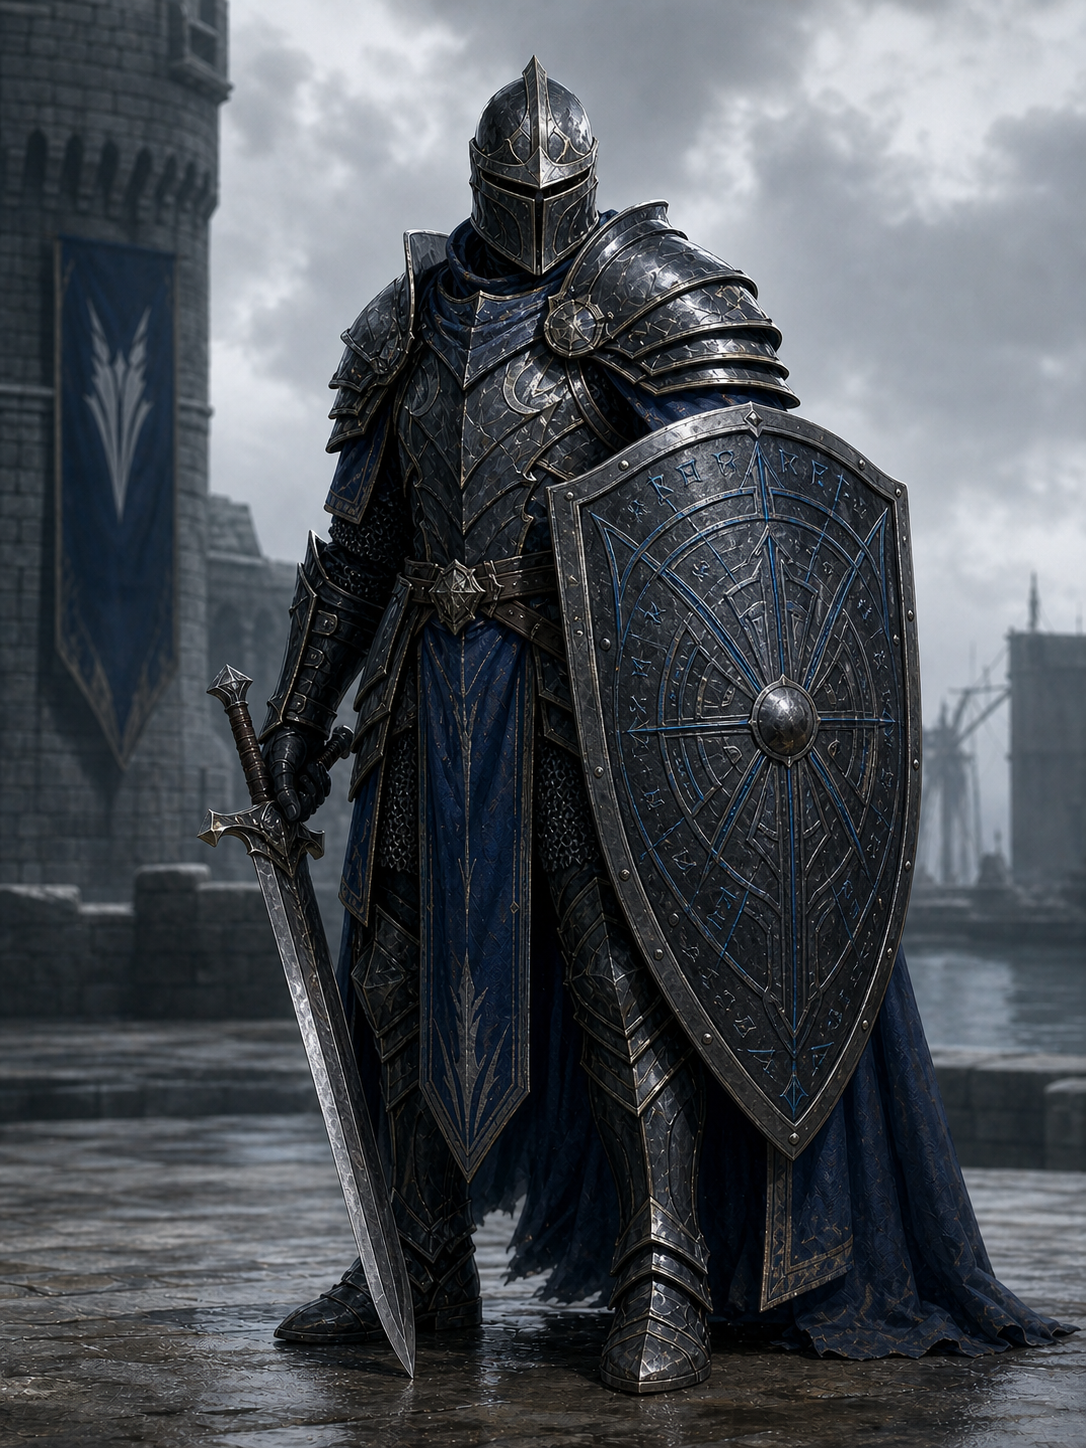
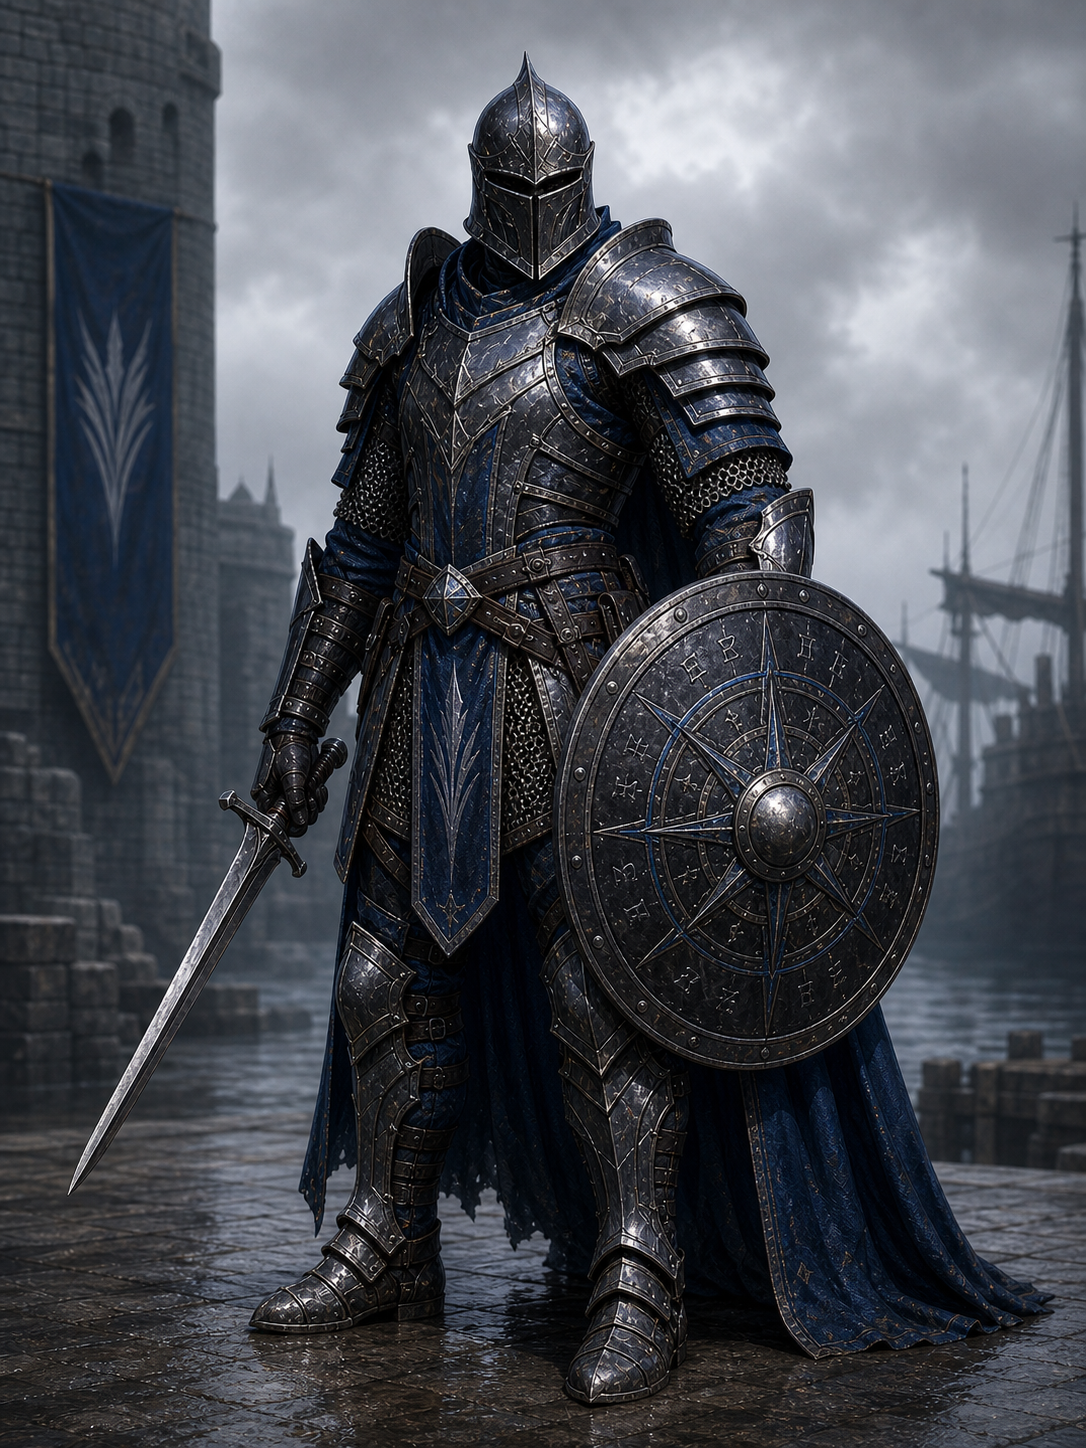
Обновить референс рунной элиты Михаэля

diff --git a/11_Медиа/Активы_персонажей/Принц_Михаэль/Элитная_гвардия_рунных_щитов/Промпт_визуального_референса.md b/11_Медиа/Активы_персонажей/Принц_Михаэль/Элитная_гвардия_рунных_щитов/Промпт_визуального_референса.md
@@ -25,8 +25,11 @@ updated_real_date: 2026-06-03
 ## Must Keep
 
 - Один типичный представитель, а не строй и не сюжетная сцена.
-- Тяжелая элитная броня из обычной стали: темная, угловатая, многослойная, богаче гвардейской, но без мифрила и кристаллов.
-- Большой рунный щит как главный визуальный знак: выгравированные руны, приглушенные синие линии в резьбе, практичный металлический щит.
+- Тяжелая элитная броня из обычной стали: темная, угловатая, многослойная, богаче гвардейской, но более открытая по конструкции и без мифрила и кристаллов.
+- Открытая конструкция брони: видны синий поддоспешник, кольчуга и кожаные крепления в сочленениях у рук, пояса и бедер; голой кожи нет.
+- Большой круглый рунный щит как главный визуальный знак: выгравированные руны, приглушенные синие линии в резьбе, практичный металлический щит.
+- Меч вторичный: одноручный меч среднего размера, естественно держится низко у стороны.
+- Рукоять меча: строго одна обычная рукоять - один хват, одна гарда, одно навершие.
 - Закрытый шлем, лицо скрыто.
 - Цвета: глубокий синий, темная сталь, черненое железо, холодная серебристо-серая отделка, сдержанные белые акценты.
 
@@ -37,11 +40,15 @@ updated_real_date: 2026-06-03
 - Не превращать элиту в паладинский орден, Гвардию Императора, Багровую Гвардию или чужую фракцию.
 - Не добавлять текст, логотипы, водяные знаки, интерфейс, лишних персонажей и сюжетную сцену.
 - Не добавлять копье, пику, алебарду или тяжелое древковое оружие.
+- Не делать броню легкой или средней.
+- Не показывать голую кожу.
+- Не делать щит башенным, каплевидным, вытянутым или овальным.
+- Не делать меч слишком маленьким, огромным, кривым, сдвоенным или с двумя рукоятями.
 
 ## Prompt
 
-Вертикальный кинематографичный реалистичный визуальный референс фэнтезийного воина: типичный боец Элитной гвардии рунных щитов Принца Михаэля, личная элита наемников Белой Гавани. Формат 3:4, один воин в полный рост или почти в полный рост, броня и рунный щит хорошо читаются, лицо скрыто закрытым шлемом. Тяжелая элитная броня из обычной стали: темная, угловатая, многослойная, богаче и мощнее обычной тяжелой гвардии, но без мифрила, кристаллов, самоцветов и сияющих вставок. Цвета: глубокий синий, темная сталь, черненое железо, холодная серебристо-серая отделка, сдержанные белые акценты. Главный предмет - большой практичный металлический рунный щит с выгравированными рунами и приглушенными синими линиями в резьбе; руны выглядят как защитная работа на стали, а не как кристаллы или драгоценности. Оружие: большой практичный меч или тяжелый боковой меч без копья. Атмосфера: героическое темное фэнтези, дорогая дисциплинированная угроза, личная элита Торгового Принца. Фон нейтральный портовый или крепостной, без сцены боя, без текста, логотипов, рамок и водяных знаков.
+Вертикальный кинематографичный реалистичный визуальный референс фэнтезийного воина: типичный боец Элитной гвардии рунных щитов Принца Михаэля, личная элита наемников Белой Гавани. Формат 3:4, один воин в полный рост или почти в полный рост, броня и рунный щит хорошо читаются, лицо скрыто закрытым шлемом. Тяжелая элитная броня из обычной стали: темная, угловатая, многослойная, богаче и мощнее обычной тяжелой гвардии, но более открытая по конструкции. Поверх глубокого синего поддоспешника и кольчуги лежат раздельные тяжелые пластины; видны кольчужные и тканевые сочленения у локтей, подмышек, пояса и бедер, без голой кожи. Броня остается тяжелой, не средней и не легкой, без мифрила, кристаллов, самоцветов и сияющих вставок. Цвета: глубокий синий, темная сталь, черненое железо, холодная серебристо-серая отделка, сдержанные белые акценты. Главный предмет - большой практичный круглый металлический рунный щит с выгравированными рунами и приглушенными синими линиями в резьбе; руны выглядят как защитная работа на стали, а не как кристаллы или драгоценности. Оружие вторично: одноручный меч среднего размера, естественно держится низко у стороны, клинок направлен вниз; у меча строго одна обычная рукоять, один хват, одна гарда и одно навершие. Атмосфера: героическое темное фэнтези, дорогая дисциплинированная угроза, личная элита Торгового Принца. Фон нейтральный портовый или крепостной, без сцены боя, без текста, логотипов, рамок и водяных знаков.
 
 ## Negative Prompt
 
-no anime, no cartoon, no comic style, no modern objects, no text, no logo, no watermark, no UI, no frame, no extra recognizable people, no wrong heraldry, no imperial guard symbols, no paladin order symbols, no crimson guard symbols, no spear, no polearm, no lance, no red heraldic scheme, no mithril, no crystals, no gemstones, no glowing crystal inlays, no demonic armor, no undead elements, no cluttered battle scene
+no anime, no cartoon, no comic style, no modern objects, no text, no logo, no watermark, no UI, no frame, no extra recognizable people, no wrong heraldry, no imperial guard symbols, no paladin order symbols, no crimson guard symbols, no spear, no polearm, no lance, no light armor, no medium armor, no bare skin, no tiny sword, no dagger-like sword, no oversized sword, no huge sword, no crooked sword grip, no duplicated sword handle, no two hilts, no split grip, no tower shield, no kite shield, no teardrop shield, no oval shield, no red heraldic scheme, no mithril, no crystals, no gemstones, no glowing crystal inlays, no demonic armor, no undead elements, no cluttered battle scene

diff --git a/05_Активы_персонажей/Принц_Михаэль/Элитная_гвардия_рунных_щитов.md b/05_Активы_персонажей/Принц_Михаэль/Элитная_гвардия_рунных_щитов.md
@@ -38,9 +38,11 @@ updated_real_date: 2026-06-03
 
 ## Визуальный канон
 
-Элитная гвардия рунных щитов похожа на тяжелую гвардию Белой Гавани по синей палитре, темной стали и закрытым шлемам, но выглядит дороже и строже. Броня тяжелее и богаче обычной гвардейской, с плотной многослойной пластиной и качественной стальной отделкой, но не мифриловая и без кристаллов.
+Элитная гвардия рунных щитов похожа на тяжелую гвардию Белой Гавани по синей палитре, темной стали и закрытым шлемам, но выглядит дороже и строже. Броня остается тяжелой и элитной, но ее конструкция более открытая: поверх синего поддоспешника и кольчуги лежат раздельные тяжелые пластины, открывающие сочленения у рук, пояса и бедер. Это не средняя броня и не открытая кожа; защита держится на тяжелых ключевых пластинах, плотной кольчуге и качественной стальной отделке, без мифрила и кристаллов.
 
-Главный визуальный знак - большой рунный щит: практичный металлический щит с выгравированными рунами и приглушенными синими линиями в резьбе. Это не самоцветы, не кристаллы и не новая демонстрация точных магических свойств.
+Главный визуальный знак - большой круглый рунный щит: практичный металлический щит с выгравированными рунами и приглушенными синими линиями в резьбе. Это не самоцветы, не кристаллы и не новая демонстрация точных магических свойств.
+
+Меч вторичен по отношению к щиту: это одноручный меч среднего размера, держится естественно у стороны и имеет одну обычную рукоять без сдвоенных деталей.
 
 Основной визуальный референс: `11_Медиа/Активы_персонажей/Принц_Михаэль/Элитная_гвардия_рунных_щитов/Элитная_гвардия_рунных_щитов_визуальный_референс.png`.
 
@@ -50,6 +52,10 @@ updated_real_date: 2026-06-03
 - Не раскрывать точные свойства рунных щитов без отдельного решения.
 - Не превращать элиту рунных щитов в паладинский орден, Гвардию Императора или Багровую Гвардию.
 - Не добавлять кристаллы, мифрил, самоцветы или сияющие вставки в броню.
+- Не делать броню легкой или средней: открытая конструкция должна оставаться тяжелой за счет крупных пластин и кольчуги.
+- Не показывать голую кожу; открытость достигается видимым поддоспешником, кольчугой и раздельными пластинами.
+- Не делать щит башенным, каплевидным или вытянутым: основной щит этой элиты круглый.
+- Не делать меч главным предметом, слишком маленьким, чрезмерно большим или с двумя рукоятями.
 - Не смешивать ее с тяжелой гвардией Белой Гавани: это личная элита наемников Михаэля, а не новая региональная часть.
 
 ## Связанные файлы